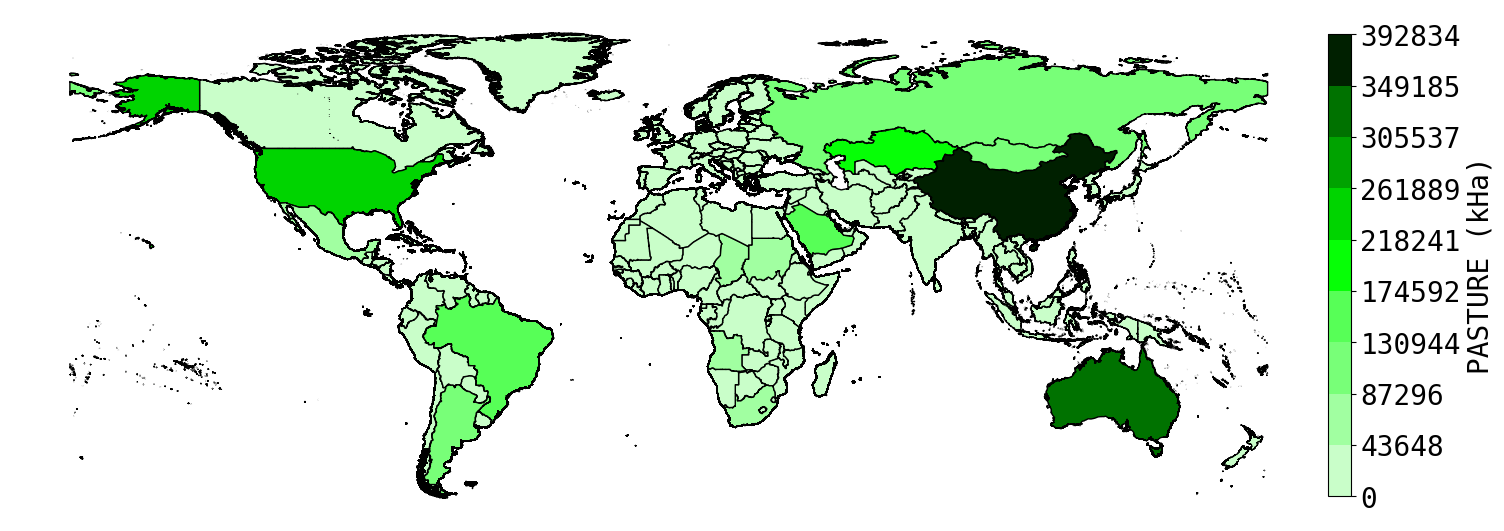
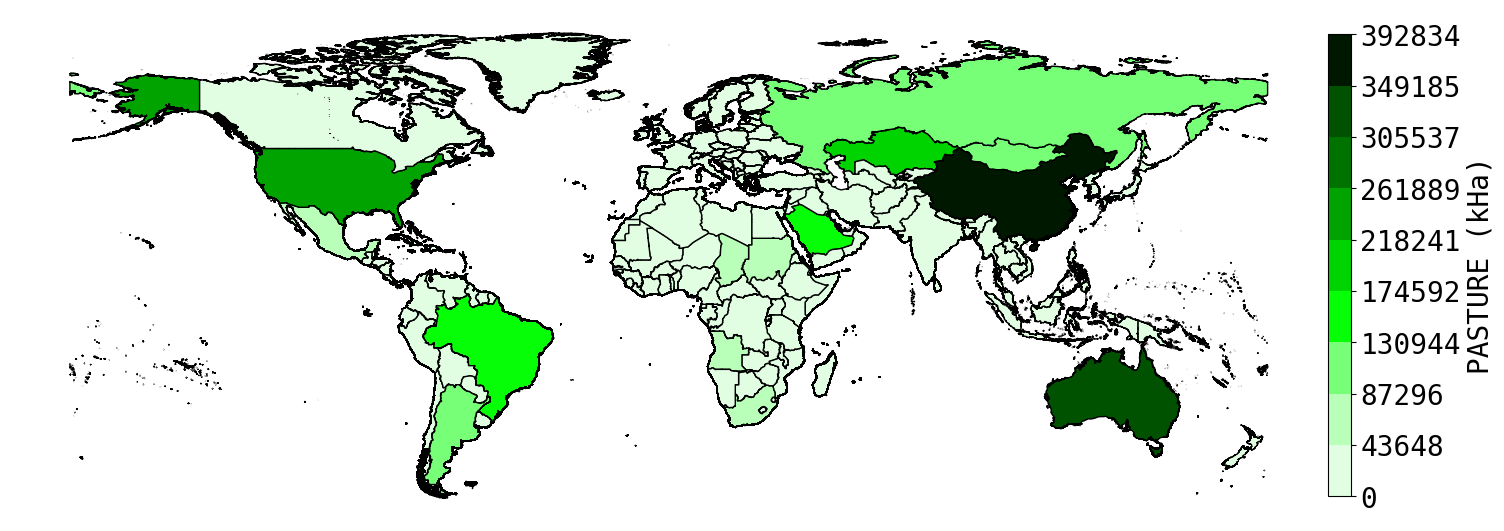
Update Pasture cmap color code

diff --git a/utils/tools/visualizer.py b/utils/tools/visualizer.py
@@ -21,10 +21,10 @@ CROPLAND_CMAP10 = colors.ListedColormap([
 ])
 
 PASTURE_CMAP10 = colors.ListedColormap([
-    '#C9FEC9', '#A1FFA1', '#78FF78',
-    '#57FF57', '#06FF06', '#00D400',
-    '#00A300', '#007200', '#005100',
-    '#002000'
+    '#E2FEE2', '#B9FEB9', '#78FF78',
+    '#06FF06', '#00D400', '#00A300',
+    '#007200', '#005100', '#003900',
+    '#001800'
 ])
 
 LAND_COVER_CMAP17 = colors.ListedColormap([
